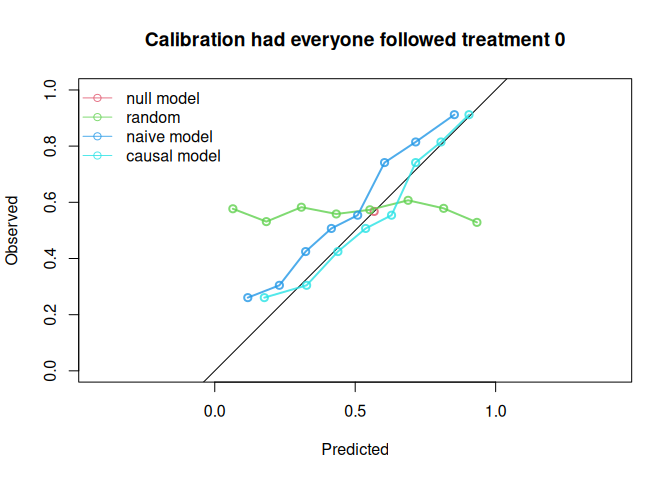
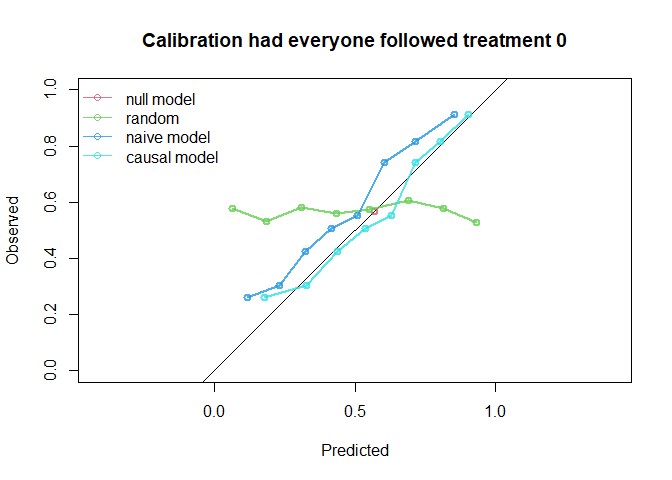
typo and description

diff --git a/README.md b/README.md
@@ -17,11 +17,14 @@ treatment weighting (IPTW) is used to construct a pseudopopulation in
 which all individuals receive a specified intervention, enabling
 assessment of agreement between predicted risks under the intervention
 and observed outcomes in the pseudo-population corresponding to that
-intervention. Supports binary and time-to-event outcomes under binary
-interventions made at a single time point. Performance measures
-supported are AUC, Brier score, observed-expected ratio, and calibration
-plots. Methods implemented in this package are based on work by [Keogh
-and Van Geloven (2024)](https://doi.org/10.1097/EDE.0000000000001713).
+intervention. Supports interventions with binary or categorical
+treatment levels, applied either at a single time point or as
+longitudinal treatment strategies with repeated treatment decisions.
+Performance measures supported are AUC (Area Under the receiving
+operating characteristic Curve), Brier score, observed-expected ratio,
+and calibration plots. Methods implemented in this package are based on
+work by [Keogh and Van Geloven
+(2024)](https://doi.org/10.1097/EDE.0000000000001713).
 
 ## Installation
 